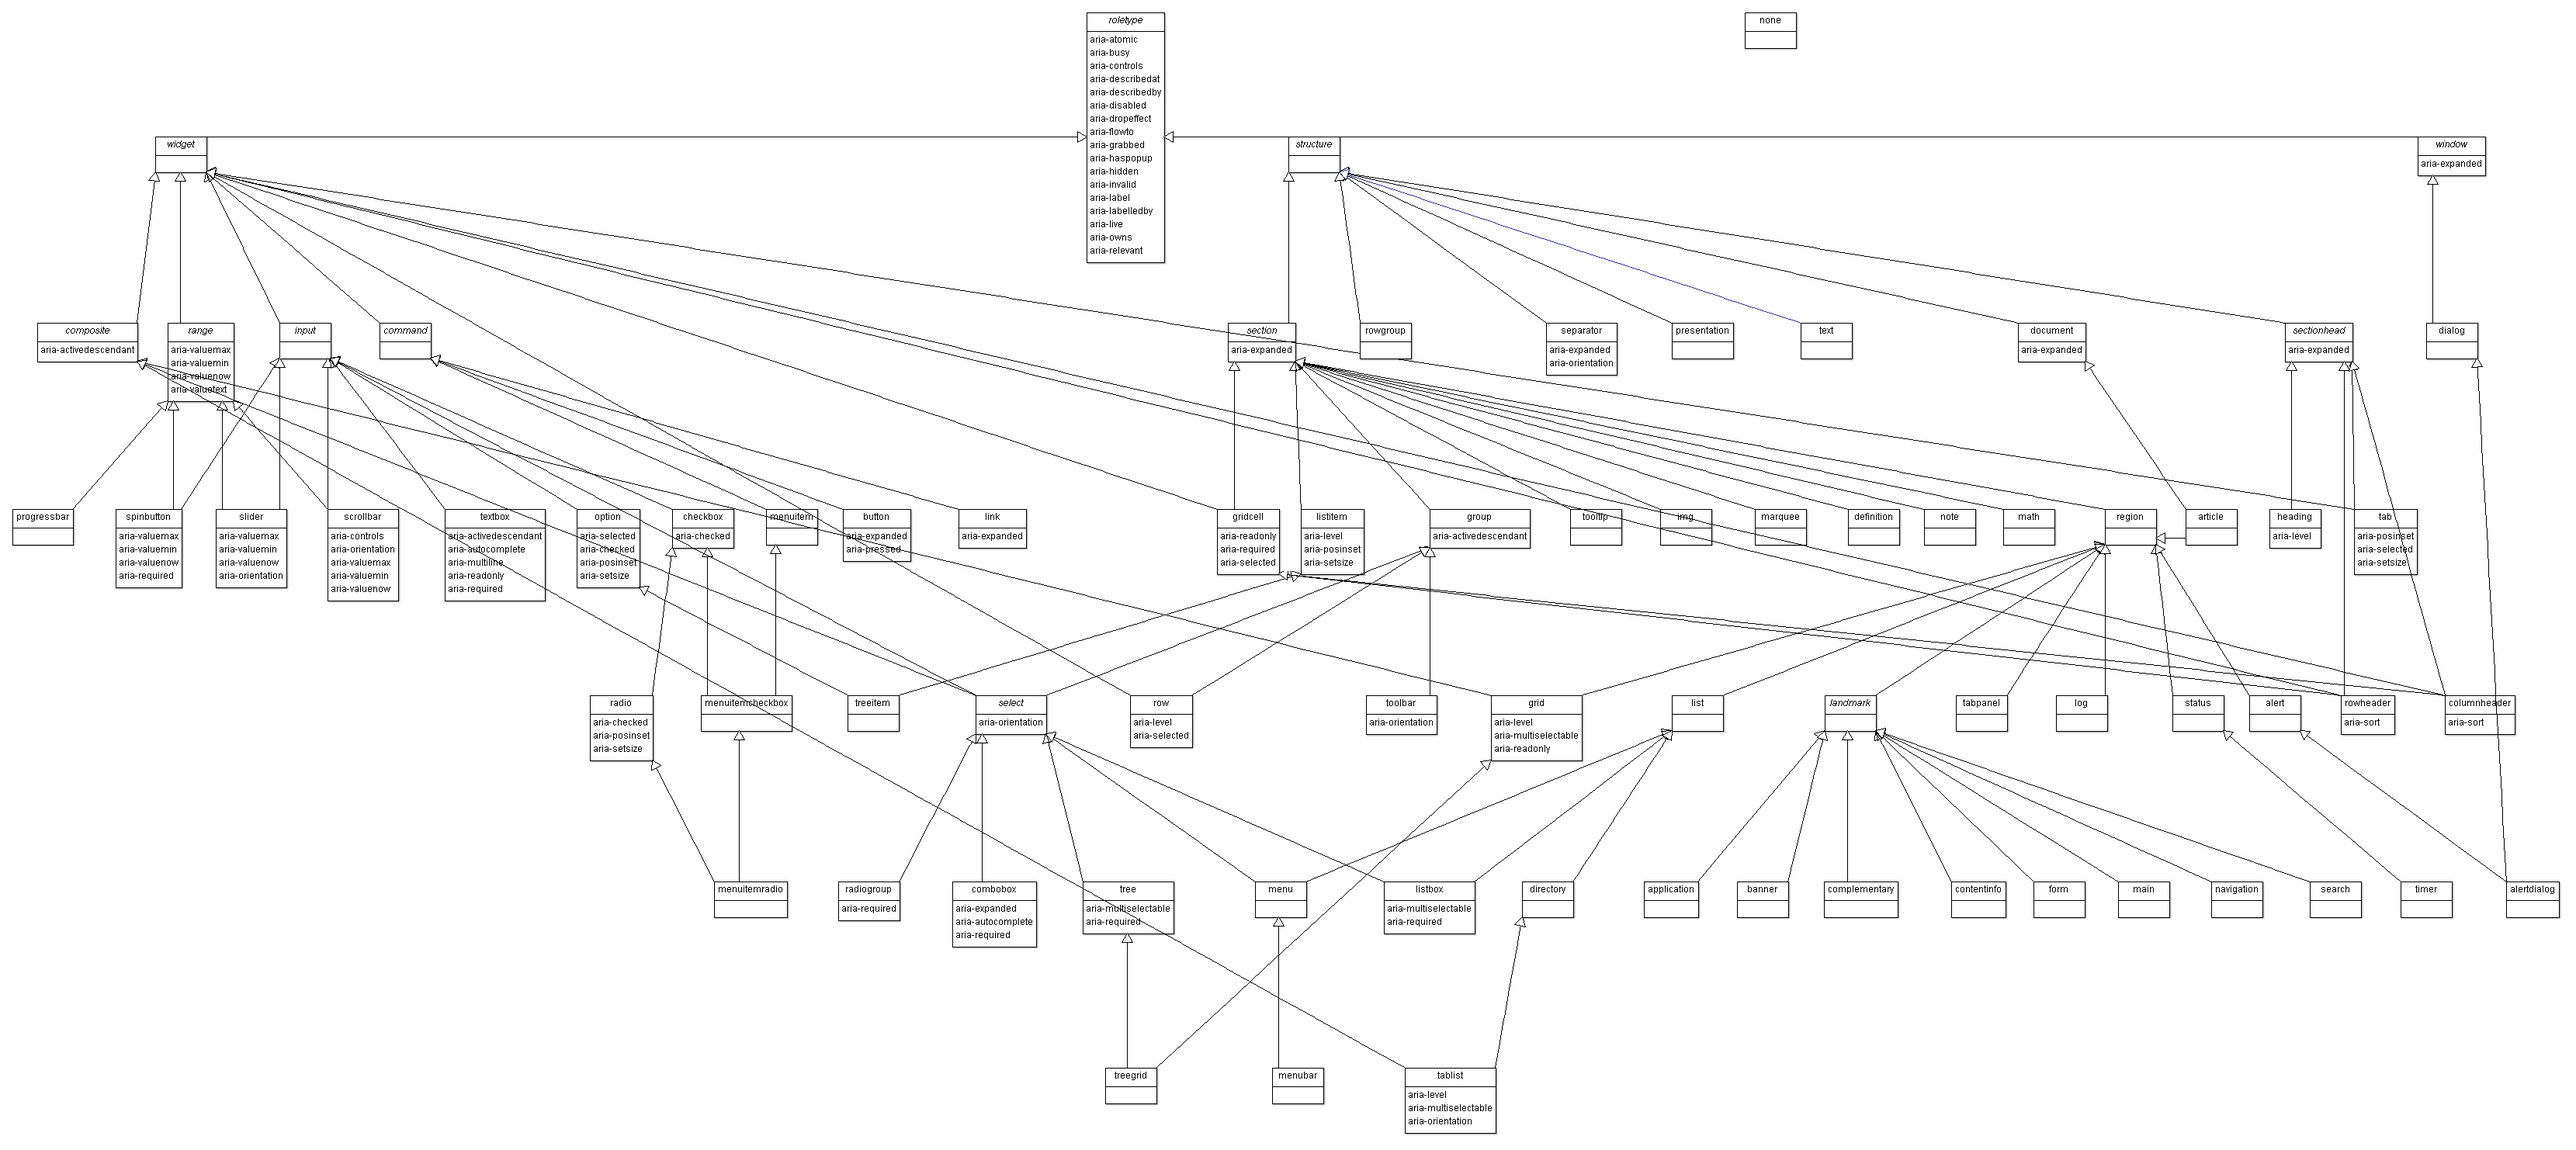
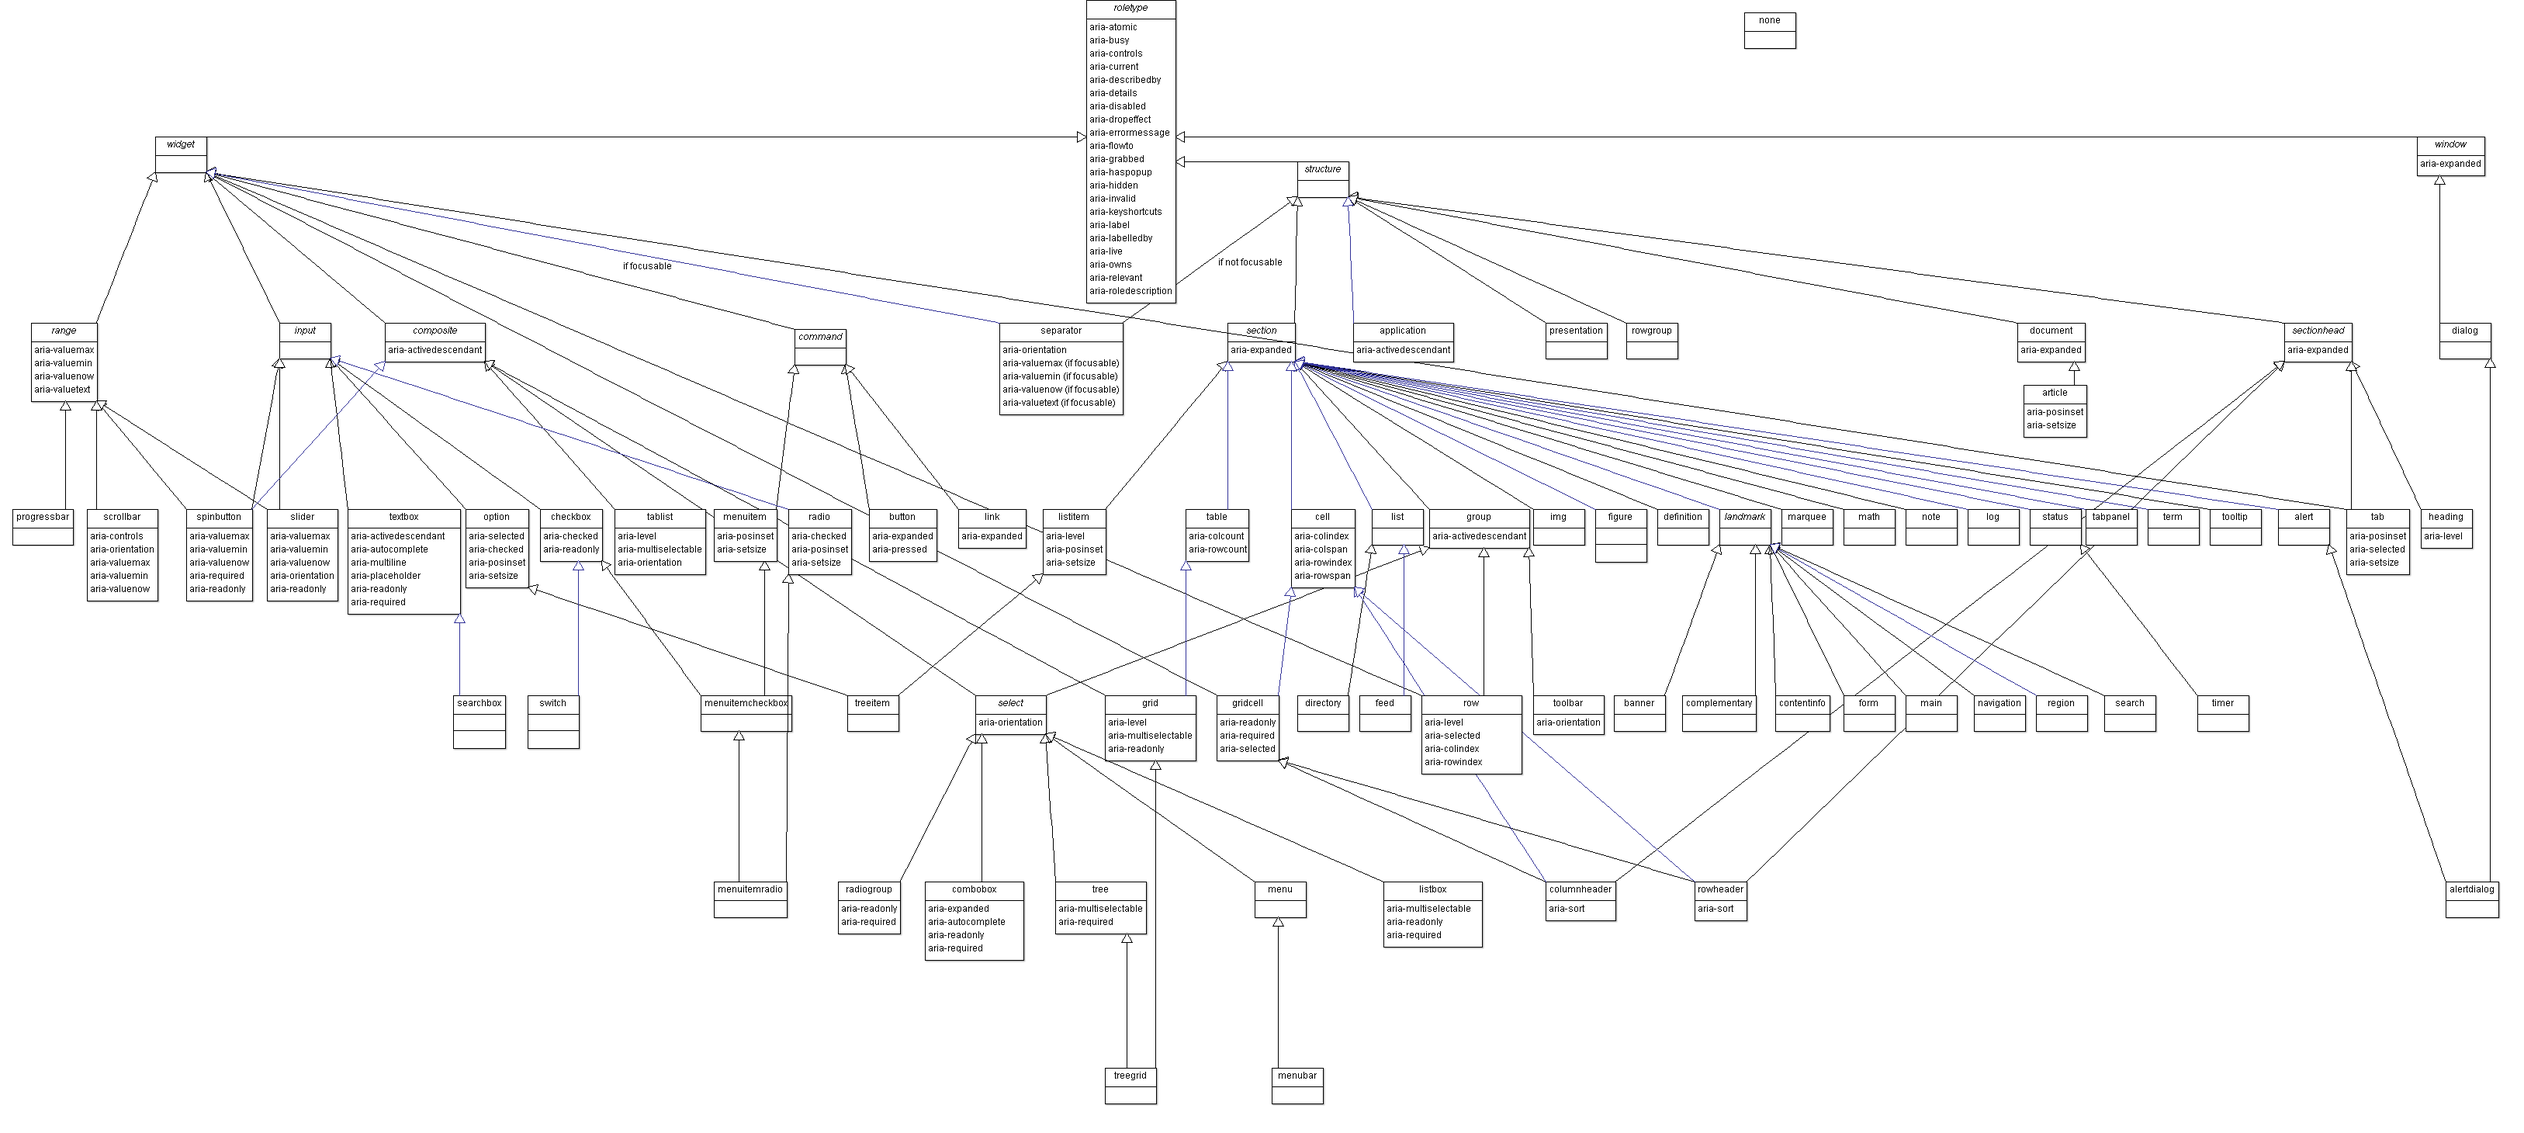
Update taxonomy diagram images

diff --git a/aria/aria.html b/aria/aria.html
@@ -519,7 +519,7 @@
 	<section id="roles_categorization">
 		<h2>Categorization of Roles</h2>
 		<p>To support the current user scenario, this specification categorizes <a>roles</a> that define user interface <a>widgets</a> (sliders, tree controls, etc.) and those that define page structure (sections, navigation, etc.). Note that some assistive technologies provide special modes of interaction for regions marked with role <code>application</code> or <code>document</code>.</p>
-		<div class="img" id="rdf_model"><a href="img/rdf_model"><img alt="Class diagram of the relationships described in the role data model" src="img/rdf_model_sm.png" longdesc="img/rdf_model.html" width="600" height="256" /></a>
+		<div class="img" id="rdf_model"><a href="img/rdf_model"><img alt="Class diagram of the relationships described in the role data model" src="img/rdf_model_sm.png" longdesc="img/rdf_model.html" width="600" height="269" /></a>
 			<p>Class diagram of the relationships described in the role data model.</p>
 			<p><a href="img/rdf_model.svg"><abbr title="Scalable Vector Graphics">SVG</abbr> class diagram</a> | <a href="img/rdf_model.png"><abbr title="Portable Network Graphics">PNG</abbr> class diagram</a> | <a href="img/rdf_model.html">Class diagram description</a></p>
 		</div>
